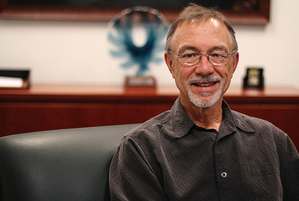
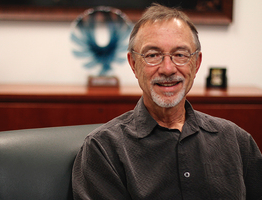
Cropped Lee

diff --git a/Stories.html b/Stories.html
@@ -252,13 +252,13 @@ body{
      <text x="20" y="117" fill="white" font-style="italic" font-size="12px">Georgia Health News</text>
       	<img src='https://github.com/pandapi/pandapi.github.io/blob/master/Site%202.0/Images/MVI_9597.Still002.jpg?raw=true'width="280" height="160"/>
       	
-<a href='http://www.jacksonheraldtoday.com/eedition/jacksonherald04-02-14/index.html' class="box1">
+<a href='http://www.redandblack.com/uganews/science_health/uga-joins-science-coalition-for-more-federal-research-funds/article_8a4d046a-017d-11e4-b99f-001a4bcf6878.html' class="box1">
    <svg width="300" height="300">
-   <text x="20" y="40" fill="white">'Adversity drives </text>
-    <text x="20" y="65" fill="white">home lessons for </text>
-    <text x="20" y="93" fill="white">young farmers'</text>
-     <text x="20" y="120" fill="white" font-style="italic" font-size="12px">Jackson County Herald p.11A</text>
-      	<img src='https://github.com/pandapi/hyacinthempinado/blob/master/Screen%20Shot%202014-05-04%20at%201.40.54%20AM.png?raw=true'width="280" height="160"/>
+   <text x="20" y="40" fill="white">'UGA joins Science  </text>
+    <text x="20" y="65" fill="white">Coalition for more federal </text>
+    <text x="20" y="93" fill="white">research funds'</text>
+     <text x="20" y="120" fill="white" font-style="italic" font-size="12px">The Red and Black</text>
+      	<img src='https://github.com/pandapi/pandapi.github.io/blob/master/Site%202.0/Images/David%20Lee.png?raw=true' width="280" height="160"/>
 
 <a href='http://news.uga.edu/releases/article/plant-chemicals-liver-damage-fat-accumulated-during-menopause-0215/' class="box1">
    <svg width="300" height="300">
